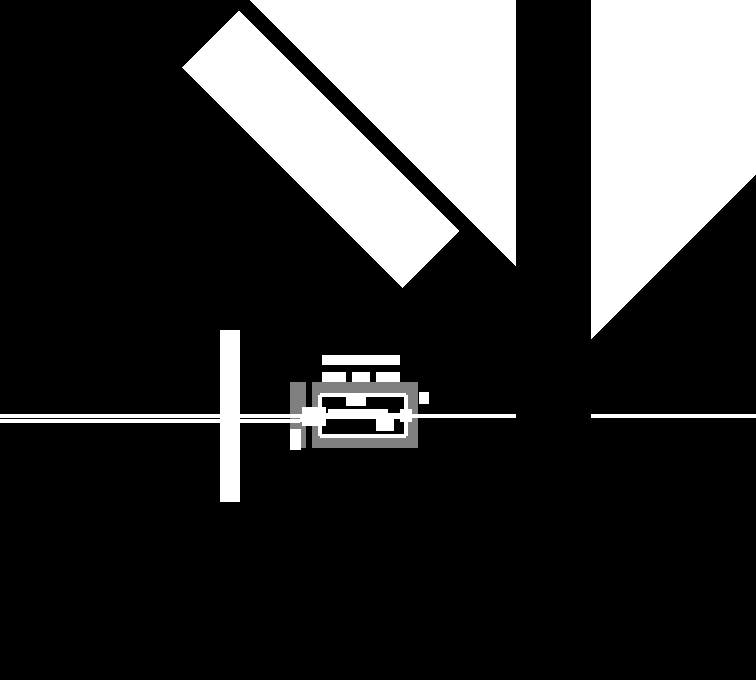
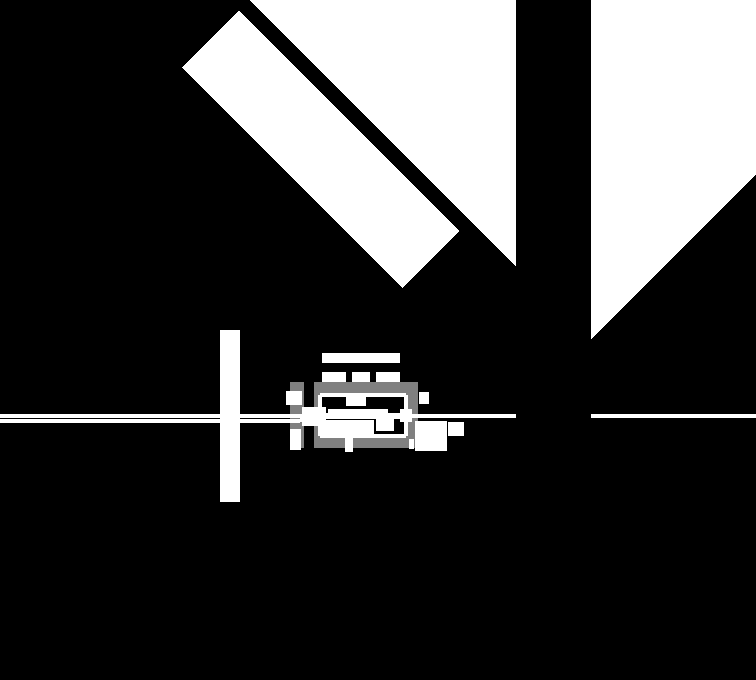
Niveles: Sagunto v1.2, frentes de la D-N113 con el nivel 1 de la escala
Revisión de la build 5188f83 (C1-C9 hechas; E1, E2 y el helipuerto pendientes),
frentes con puestos y caminos, dato de carreteras v1.2, plano y zonas regenerados.

Claude-Session: https://claude.ai/code/session_01A4RyjSgEyJFuVaWsxGoMac

Changed region(s): [[0.3651, 0.5559, 0.5172, 0.6794], [0.5476, 0.6176, 0.6389, 0.6794]]

diff --git a/docs/niveles/herramientas/plano_v1_2.py b/docs/niveles/herramientas/plano_v1_2.py
@@ -1,0 +1,116 @@
+# Plano v1.2 de Sagunto (Álvaro, 7-nov): nivel 1 de la escala (E1-E6) + frentes de la D-N113 dentro de la zona.
+# Fondo: el mapa de zonas v1.2 (zonas.py). Encima, lo construido (build 5188f83) y lo nuevo de la v1.2.
+import numpy as np
+from PIL import Image, ImageDraw, ImageFont
+S=4; X0,X1,Z0,Z1=-30,262,-8,140
+zon=np.array(Image.open("/mnt/project-files/docs/niveles/sagunto_zonas_1m.png"))
+col={0:"#b4a080",1:"#c8b490",2:"#d8c8a0",3:"#48403c",4:"#6c7874",5:"#a86c50",6:"#c4ac84",7:"#94948c",8:"#605c48",9:"#506878",10:"#88885c",11:"#605c48"}
+# recorte: fila 0 del PNG = Z 480, columna 0 = X -250
+sub=zon[480-Z1:480-Z0, X0+250:X1+250]
+rgb=np.zeros(sub.shape+(3,),np.uint8)
+for k,c in col.items(): rgb[sub==k]=[int(c[i:i+2],16) for i in (1,3,5)]
+base=Image.fromarray(rgb).resize(((X1-X0)*S,(Z1-Z0)*S),Image.NEAREST)
+LEG=250
+im=Image.new("RGB",(base.width,base.height+LEG),"#1c1812"); im.paste(base,(0,0)); d=ImageDraw.Draw(im)
+Fp="/usr/share/fonts/truetype/dejavu/DejaVuSans.ttf"; Fb="/usr/share/fonts/truetype/dejavu/DejaVuSans-Bold.ttf"
+F=ImageFont.truetype(Fp,13); FS=ImageFont.truetype(Fp,11); FB=ImageFont.truetype(Fb,15); FT=ImageFont.truetype(Fb,18)
+def P(x,z): return ((x-X0)*S,(Z1-z)*S)
+def R(x0,z0,x1,z1,fill=None,outline=None,w=1): d.rectangle([P(x0,z1),P(x1,z0)],fill=fill,outline=outline,width=w)
+def L(pts,c,w=2): d.line([P(*p) for p in pts],fill=c,width=w)
+def T(x,z,s,c="#1c1812",f=None,bg=None):
+    f=f or F; p=P(x,z)
+    if bg: bb=d.multiline_textbbox(p,s,font=f); d.rectangle([bb[0]-2,bb[1]-1,bb[2]+2,bb[3]+1],fill=bg)
+    d.multiline_text(p,s,fill=c,font=f)
+def rot(cx,cz,w,h,yaw,fill,outline="#1c1812"):
+    a=np.radians(yaw); ux=(np.cos(a),-np.sin(a)); uz=(np.sin(a),np.cos(a))
+    pts=[(cx+sx*w/2*ux[0]+sz*h/2*uz[0], cz+sx*w/2*ux[1]+sz*h/2*uz[1]) for sx,sz in((-1,-1),(1,-1),(1,1),(-1,1))]
+    d.polygon([P(*p) for p in pts],fill=fill,outline=outline)
+# zona simulada
+R(0,0,256,128,outline="#d4d0cc",w=2); T(1,139,"Zona simulada 0–256 × 0–128 m (marco claro)","#d4d0cc",FS,"#1c1812")
+# vías
+L([(X0,64.5),(X1,64.5)],"#94948c",3); L([(X0,59.5),(50,59.5),(64,64.5)],"#94948c",2)
+for x,y in((35,0),(20,8),(5,-12)): rot(x,59.5,14,3,y,"#605c48")
+T(2,56,"tolvas (C2)","#1c1812",FS)
+for x in range(-240,262,50): d.ellipse([P(x-0.8,61.7),P(x+0.8,60.1)],fill="#283440")
+# línea central de la carretera (E1) y del carril abierto
+for x in range(X0,X1,6): L([(x,23),(x+3,23)],"#b8b8b8",1)
+# atasco: v1.2 carril norte abierto de X 64 a 200, apretado al este de 200
+import random; random.seed(7); ax=70
+while ax<250:
+    ax+=random.uniform(5,12) if ax<200 else random.uniform(4.5,6.5)
+    if ax>=250: break
+    if ax<200: z=random.choice([19.5,20.5,21.5,16.2,15.5]); yaw=random.uniform(-25,25)+random.choice([0,0,60])
+    else: z=random.choice([20,21,24.5,25.5,26]); yaw=random.uniform(-25,25)
+    rot(ax,z,4.2,1.8,yaw,random.choice(["#283440","#605c48","#94948c"]))
+rot(258,23,8,2.5,78,"#94948c")
+# corte K1 y K2, balizas
+def corte(x,z,yaw): rot(x,z,8.8,3,yaw,"#b8b8b8","#1c1812")
+corte(201.5,23,90); T(203,31,"K1 corte","#1c1812",FS,"#b8b8b8")
+corte(59,86,0); T(65,87,"K2 corte","#1c1812",FS,"#b8b8b8")
+bal=[(x,28.8) for x in (70,86,110,126,142,158,174,186)]+[(94.2,36),(103.8,36),(53.2,40),(64.8,40),(53.2,52),(64.8,52)]   # §10.3: 14 balizas
+for x,z in bal: d.ellipse([P(x-1,z+1),P(x+1,z-1)],fill="#f0dc9c",outline="#1c1812")
+# fuerte
+R(70,44,156,85,outline="#88885c",w=8)
+L([(70,62),(70,67)],"#7c3c18",8); L([(156,62),(156,67)],"#7c3c18",8)
+L([(95,45),(103,45)],"#70784c",9); T(92,41.5,"E4 puerta de vehículos 8 m","#1c1812",FS,"#c4ac84")
+R(78,66.7,138,70.7,fill="#605c48"); R(96.5,75,115.5,84,fill="#b4a080",outline="#1c1812"); T(98,82,"Viajeros","#1c1812")
+R(127,50,143,58,fill="#94948c",outline="#1c1812"); T(128,57,"Almacén","#1c1812",FS)
+R(73.5,63.5,154,65.5,fill="#50541c",outline="#1c1812")
+R(72,46,124,60,outline="#f0dc9c",w=2); T(73,59.2,"E5 parque de vehículos","#1c1812",FS)
+for x,n,l in((99,"Dragón",8),(88,"VAMTAC",4.9),(80,"VAMTAC",4.9)): rot(x,53,3 if n=="Dragón" else 2.2,l,0,"#50541c")
+# almacén de naranjas, caseta, barricada, bus
+R(40,30,51,51,fill="#a86c50",outline="#1c1812"); T(29,28,"Almacén de naranjas","#1c1812",FS)
+R(49.7,71.3,52.3,73.9,fill="#94948c",outline="#1c1812")
+rot(59,92,11,2.6,74,"#94948c"); T(64,95,"autobús y barricada","#1c1812",FS)
+for i in range(5): rot(53+i*2.3,88.5+(i%2)*1.6,1.8,1.2,i*31,"#605c48")
+# casas (C7 + E3)
+for i in range(12):
+    if i not in(4,8): R(72+i*6,98,78+i*6,108,fill="#a86c50",outline="#1c1812")
+    if i!=3: R(72+i*6,117,78+i*6,127,fill="#a86c50",outline="#1c1812")
+T(152,114,"E3 calle del pueblo 9 m","#1c1812",FS)
+R(169,75,179,89,fill="#b4a080",outline="#1c1812"); T(180,86,"Bloque","#1c1812",FS)
+# helipuerto, NH90, rearme, puesto F3
+R(165.2,28.8,195.6,59.2,fill="#6c7874",outline="#1c1812",w=2)
+d.ellipse([P(172,52),P(188,36)],outline="#d4d0cc",width=3); T(177.5,47.5,"H","#d4d0cc",FT)
+rot(180,44,19.6,3,0,"#50541c"); d.ellipse([P(171.85,52.15),P(188.15,35.85)],outline="#50541c",width=1)
+R(159,31,164,41,fill="#847c34",outline="#1c1812"); T(150,30,"rearme","#1c1812",FS,"#c4ac84")
+L([(186,38),(222,2)],"#d4d0cc",1); T(206,10,"aproximación\ny salida (SE)","#1c1812",FS,"#d4d0cc")
+def puesto(cx,cz,yaw,label):
+    rot(cx+(1.05*np.sin(np.radians(yaw))),cz+(1.05*np.cos(np.radians(yaw))),14.3,16.4,yaw,"#70784c")
+    a=np.radians(yaw); ex,ez=cx+9.2*np.sin(a),cz+9.2*np.cos(a); d.ellipse([P(ex-1.2,ez+1.2),P(ex+1.2,ez-1.2)],fill="#f0dc9c")
+    T(cx-6,cz+2,label,"#d4d0cc",FS)
+puesto(43,82,90,"puesto\nF2"); puesto(207,51,270,"puesto\nF3")
+# frentes
+def frente(x,z,n,txt,dx=3,dz=6):
+    d.ellipse([P(x-3.2,z+3.2),P(x+3.2,z-3.2)],outline="#d4d0cc",width=3); T(x-2,z+2.2,n,"#d4d0cc",FB)
+    T(x+dx,z+dz,txt,"#d4d0cc",F,"#1c1812")
+frente(112,78,"F1","F1 Estación (112; 78)",-10,15)
+frente(59,62,"F2","F2 Paso a nivel (59; 62)",-47,-6.5)
+frente(180,44,"F3","F3 Helipuerto (180; 44)",-2,25)
+T(-29,47,"F4 Tren: sitio móvil (en el dato, X −68 al llegar)","#d4d0cc",FS,"#1c1812")
+# rutas del parque a los frentes (D-N96: solo por carreteras habilitadas y accesos)
+L([(99,53),(99,23),(59,23),(59,62)],"#f0dc9c",3); T(66,33,"→ F2: 109 m · ≈ 19 s","#1c1812",FS,"#f0dc9c")
+L([(99,53),(99,23),(180,23),(180,44)],"#f0dc9c",3); T(130,26.5,"→ F3: 132 m · ≈ 21 s","#1c1812",FS,"#f0dc9c")
+# entradas de oleadas
+for x0,z0,x1,z1,n in((0,56,8,73,"O1 50 %"),(0,14,8,31,"O2 30 %"),(0,92,8,124,"O3 20 %"),(248,56,256,73,"O4 0 %")):
+    R(x0,z0,x1,z1,outline="#e08c30",w=3); T(x0+(-26 if x0==0 else -26),z1+4.5 if x0 else z0+(z1-z0)/2+2,n,"#e08c30",FB,"#1c1812")
+T(110,139,"↑ Norte: pueblo y cerro","#d4d0cc",FS,"#1c1812"); T(110,-3,"↓ Sur: huerta y el mar","#d4d0cc",FS,"#1c1812")
+T(-29,8,"← Valencia","#d4d0cc",FS,"#1c1812"); T(225,139,"Castellón →","#d4d0cc",FS,"#1c1812")
+# leyenda
+y=base.height+10
+def lg(x,y,c,s,shape="r"):
+    if shape=="r": d.rectangle([x,y,x+22,y+14],fill=c,outline="#1c1812")
+    elif shape=="o": d.ellipse([x+6,y+2,x+16,y+12],fill=c)
+    else: d.rectangle([x,y,x+22,y+14],outline=c,width=3)
+    d.text((x+30,y-1),s,fill="#d4d0cc",font=F)
+items=[("#6c7874","r","Asfalto: carretera vieja E1 y calle de la Estación E2, de 10 m"),("#c4ac84","r","Tierra pisada: camino de la puerta sur, puestos y rearme"),
+       ("#f0dc9c","o","Baliza de ruta de Teo (carretera habilitada)"),("#b8b8b8","r","K1/K2: corte de carretera de Teo (no habilitada)"),
+       ("#70784c","r","Puesto de frente v2 (HESCO), 14,3 × 16,4 m; punto crema = entrada"),("#f0dc9c","b","Ruta del parque a un frente, con su ETA (fórmula de la D-N120)"),
+       ("#e08c30","b","Entradas de las oleadas (§9.5)"),("#d4d0cc","b","Frente de la D-N113 (sitio del dato)")]
+for i,(c,sh,s) in enumerate(items): lg(10+(i%2)*580,y+(i//2)*24,c,s,sh)
+d.text((10,y+104),"Sagunto · plano del nivel v1.2 (Álvaro, 7-nov) · 4 px/m, norte arriba · fondo: zonas v1.2 · encima: build 5188f83 + v1.2",fill="#d4d0cc",font=FB)
+d.text((10,y+130),"Carril norte de la carretera abierto por el ejército de X 64 a 200 (los coches, al carril sur y a la cuneta); al este de 200, atasco cerrado y corte K1.",fill="#d4d0cc",font=F)
+d.text((10,y+150),"Calle de la Estación habilitada hasta Z 86; al norte, autobús, barricada y corte K2. Las ETA son cuentas mías con la fórmula de Nacho, no medidas en el juego.",fill="#d4d0cc",font=F)
+d.text((10,y+170),"Helipuerto v4 de Teo (30 × 30 m con balizas) sin anillo de HESCO: lo defiende el puesto F3. Aproximación y salida por el sureste, sobre la huerta.",fill="#d4d0cc",font=F)
+d.text((10,y+190),"Colores de la paleta de 32; ningún rojo. El naranja de las oleadas es solo del plano, no del juego.",fill="#d4d0cc",font=F)
+im.save("/mnt/project-files/docs/niveles/sagunto_plano_v1_2.png"); print(im.size)

diff --git a/docs/niveles/herramientas/zonas.py b/docs/niveles/herramientas/zonas.py
@@ -17,13 +17,19 @@ z[box(40,51,30,51)]=6
 # recinto
 z[box(70,156,44,85)]=1
 # pueblo, calle del pueblo y solares
-z[box(72,150,98,125)]=7
-z[box(72,150,108,115)]=4
+z[box(72,150,98,127)]=7
+z[box(72,150,108,117)]=4               # E3 (v1.2): calle del pueblo de 9 m, hilera trasera en Z 122
 for gi in (4,8): z[box(75+gi*6-3,75+gi*6+3,98,108)]=10   # 5.ª y 9.ª casa de la hilera de delante
 # calles y carreteras
-z[box(X0,X1,20,26)]=4                 # carretera vieja
-z[box(56,62,Z0,286)]=4                 # calle de la Estación (sube hasta el pie del cerro, x+z = 345)
+z[box(X0,X1,18,28)]=4                 # E1 (v1.2): carretera vieja de 10 m
+z[box(54,64,Z0,286)]=4                 # E2 (v1.2): calle de la Estación de 10 m (sube hasta el pie del cerro, x+z = 345)
 z[box(-24,-16,-22,150)]=4             # carretera del paso superior (sobre los terraplenes)
+# v1.2: frentes de la D-N113 y nivel 1 de la escala
+z[box(95,103,28,44)]=6                # E4: camino de la puerta de vehículos a la carretera (tierra pisada)
+z[box(164.8,196.6,28.8,59.2)]=4       # E6: helipuerto de Teo (losa; la zona queda debajo del modelo)
+z[box(35.9,52.2,74.9,89.1)]=6         # F2: puesto de frente del paso a nivel (v2 HESCO, centro (43;82), yaw 90)
+z[box(197.8,214.1,43.9,58.1)]=6       # F3: puesto de frente del helipuerto (v2 HESCO, centro (207;51), yaw 270)
+z[box(159,164,31,41)]=6               # F3: set de rearme entre el muro este y el helipuerto
 # acequias (solo en la huerta sur; madre a Z 10, ramales N-S cada 40 m al sur de Z 10)
 z[box(X0,X1,9,11)&(z==5)]=9
 for x in range(-230,500,40): z[box(x,x+2,Z0,10)&(z==5)]=9
@@ -49,7 +55,12 @@ m[box(96,116,74,85)]=255                      # edificio de viajeros
 m[box(126,144,49,61)]=255                     # almacén y muelle
 m[box(40,51,30,51)]=255                       # almacén de naranjas
 m[box(169,179,76,88)]=255                     # bloque de pisos
-m[box(72,150,98,108)&(z!=10)]=255; m[box(72,150,115,125)]=255   # casas (huellas)
+m[box(72,150,98,108)&(z!=10)]=255; m[box(72,150,117,127)]=255   # casas (huellas; hilera trasera en Z 122, E3)
+m[box(95,103,28,46)]=255                      # E4: puerta de vehículos y camino
+m[box(72,124,46,60)]=255                      # E5: parque de vehículos
+m[box(164.8,196.6,28.8,59.2)]=255             # E6: helipuerto
+m[box(35.9,52.2,74.9,89.1)|box(197.8,214.1,43.9,58.1)]=255   # F2 y F3: puestos de frente
+m[box(159,164,31,41)]=255                     # F3: rearme
 m[box(-30,-10,-22,150)]=255                   # paso superior y terraplenes
 m[box(68,72,44,85)|box(154,158,44,85)|box(70,156,42,46)|box(70,156,83,87)]=255  # muros (por si cambian, ver §8.3)
 m[z==11]=255
@@ -71,7 +82,7 @@ for i,(k,n) in enumerate(ZON.items()):
   x=10+(i%6)*250; y=10+(i//6)*40
   dl.rectangle([x,y,x+26,y+26],fill=col[k]); dl.text((x+34,y+3),f"{k} {n}",fill="#d4d0cc",font=F)
 dl.text((10,100+0),"Oscurecido: sin vegetación. Marco blanco: zona simulada (0-256 × 0-128 m). 1 px del PNG = 1 m; aquí ×2. Norte arriba.",fill="#d4d0cc",font=F)
-dl.text((10,130),"Sagunto · mapa de zonas del suelo v1 (Álvaro, 6-nov) · faldón X −250..506, Z −200..480",fill="#d4d0cc",font=F)
+dl.text((10,130),"Sagunto · mapa de zonas del suelo v1.2 (Álvaro, 7-nov: calles de 10 m, puerta sur, parque, helipuerto y puestos de frente) · faldón X −250..506, Z −200..480",fill="#d4d0cc",font=F)
 out=Image.new("RGB",(W*2,H*2+170)); out.paste(im,(0,0)); out.paste(leg,(0,H*2)); out.save("/mnt/project-files/docs/niveles/sagunto_zonas_vista.png")
 json.dump({"origen_px00":"esquina noroeste: X=-250, Z=480","px_m":1,"ancho":W,"alto":H,"X":[X0,X1],"Z":[Z0,Z1],
   "uv_unity":"u=(X+250)/756, v=(Z+200)/680 (Unity carga la fila 0 del PNG arriba, como v=1)","zonas":ZON,

diff --git a/docs/niveles/sagunto-nivel.md b/docs/niveles/sagunto-nivel.md
@@ -1,8 +1,9 @@
-# Sagunto · diseño del nivel (v1.1, aprobado por Lucía)
+# Sagunto · diseño del nivel (v1.2: frentes de la D-N113 con el nivel 1 de la escala; la v1.1 la aprobó Lucía)
 
 Autor: Álvaro (Niveles) · 6-nov-2026 · Origen: Eugenio, 17:20: «¿es normal que la vía esté cortada? […] que tenga sentido, que sea realista, que se sienta vivo».
 Revisión de cohesión: **Lucía** (última palabra). **Aprobado el 6-nov a las 18:27** con las correcciones de color y contenido de la v1.1 (abajo). Modelos: **Teo**. Integración: **Marcos** (vía Mak).
 Plano: `docs/niveles/sagunto_plano_v1.png` (vista cenital de la zona de 256 × 128 m con lo que hay hoy y lo que propongo).
+**Plano vigente (v1.2, 7-nov): `docs/niveles/sagunto_plano_v1_2.png`**, con los frentes, las calles de 10 m, la puerta sur, el parque y el helipuerto. Lo nuevo está en el **§10**, al final.
 
 > Regla de la casa: cada vía, calle y muro tiene que tener una razón de existir. Si no sabemos contar por qué está ahí, sobra o está mal puesto.
 
@@ -343,3 +344,96 @@ Las fotos F2 de Paula muestran que el puente ferroviario sobre el Palancia es un
 - **Almacén de naranjas** (`sagunto\almacen_naranjas`, v0-v5, pendiente de Lucía): 11 × 21 m, justo la planta del tejado de pruebas (X 40-51, Z 30-51). Centro en **(45,5; 40,5)**, con la fachada al sur, hacia la carretera vieja (girado 180°). **Ojo con la simulación**: el sólido del tejado es plano a 4 m (`Level.RoofH`) y ahí aparecen los zombis del «1 tejado». Hace falta el alero a ~4 m y la variante de cubierta más plana, o los zombis flotarán sobre los faldones. Marcos decide si se ajusta el sólido o se elige la variante.
 - (18:58) Altura: la colisión del tejado es una caja plana de **4,0 m** (`Level.RoofH`). Lucía pidió alero a 5,5 m y cumbrera a 7,5 m, y he recomendado a Teo **ajustar el modelo**: alero a 4,0 m, cubierta de ≤ 5° o azotea con pretil, y cumbrera a ≤ 4,5 m. Cambiar RoofH obliga a recalibrar las caídas y los goldens de zona. Si Lucía prefiere la cubierta a dos aguas de verdad, Marcos sube RoofH a 5,5 m y vuelve a pasar las pruebas de caídas.
 - (19:01) **Decisión de Marcos**: el sólido del tejado sube a 6,5 m y el almacén se queda a dos aguas. Por tanto, hay que recalibrar las caídas y regenerar los goldens de zona. Aviso de nivel: un sólido plano a 6,5 m bajo una cubierta de 5,5 a 7,5 m hace que los zombis floten 1 m sobre el alero y se hundan 1 m junto a la cumbrera. Desde arriba y en pixelado apenas se nota, pero conviene mirarlo en la captura. Si no convence, Teo tiene preparada una variante con azotea a 4,0 m que cuadra con RoofH = 4.
+
+---
+
+## 10. v1.2: los frentes de la D-N113 dentro de Sagunto, con el nivel 1 de la escala (Álvaro, 7-nov)
+
+Encargo (plan-dia-7nov.md): llevar el nivel 1 de §9 (calles de 10 m, puerta de vehículos sur, parque y helipuerto anexo) a los frentes de la D-N113 (estación, paso a nivel y helipuerto dentro de Sagunto) y revisar C1–C9 en la build de Marcos.
+Plano: **`sagunto_plano_v1_2.png`** (script `herramientas/plano_v1_2.py`). Mapa de zonas y máscara regenerados con la v1.2 (`zonas.py`). Dato de carreteras propuesto: **`mapa_sagunto_carreteras_v1_2.json`**.
+
+**En una frase**: cada frente tiene ya un sitio con razón de ser, un puesto que lo defiende, un camino de vehículos que se puede contar («el ejército abrió un carril a empujones») y un corte visible donde el dato dice «no habilitada».
+
+### 10.1 Revisión de la build de Marcos (rama `marcos/noche-prototipo`, 5188f83, leída en el código, sin Unity)
+| # | Estado | Qué hay (archivo de `Assets/TBD/Scripts/`) |
+|---|---|---|
+| C1 | ✅ | Vía 2 de X −250 a 50 y desvío de 50 a 64 (`View/PrototypeBootstrap.cs:1450`) |
+| C2 | ✅ | Tolvas de Teo v0, v2 y v3 en X 35, 20 y 5, con yaw 0, +8 y −12 (`:1459`) |
+| C3 | ✅ ⚠ | Paso superior con terraplenes al 12 % y losa sobre la carretera (`:1394`). **Pero** el dato lo da por no habilitado con «coches abandonados encima» y encima no hay ningún coche: ver 10.6, punto 8 |
+| C4 | ✅ | Tablero de la carretera sobre el cauce y camión cruzado en X 258 (`:1409`) |
+| C5 | ✅ | Atasco irregular (`:1437`). Con la carretera de 10 m hay que mover los carriles: ver 10.4 |
+| C6 | ✅ | Cauce a −4,5 m con orillas y cañas (v1.3) |
+| C7 | ✅ | Hileras en Z 103 (0°) y Z 120 (180°) (`:1345`). E3 pide la trasera en Z 122 |
+| C8 | ✅ | Variantes de casa por hash y alero de distinta altura |
+| C9 | ✅ | Postes de X −240 a 500 (`:1340`) |
+| E1 | ❌ | Carretera vieja todavía de 6 m, Z 20-26 (`:1435`) |
+| E2 | ❌ | Calle de la Estación todavía de 6 m, X 56-62 (`:1423`), y el paso a nivel igual (`:1425`) |
+| E3 | ⚠ | Calle del pueblo de 7 m (falta mover la hilera trasera a Z 122) |
+| E4 | ✅ sim · ❓ vista | La simulación ya tiene la puerta de 8 m (D-N111, G3) y los vehículos cruzan el muro sur por X 95-103 (`View/PrototypeBootstrap.Vehicles.cs:106`). No encuentro dónde se dibuja la hoja doble, y el modelo de Teo (`SM_PuertaVehiculos`) no está en `Resources/Models` |
+| E5 | ✅ | Dragón en (99; 53) y VAMTAC en (88; 53) y (80; 53), yaw 180 (`Vehicles.cs:56`) |
+| E6 | ⚠ | El NH90 está en (180; 44) con yaw 270, pero **el helipuerto de Teo no está importado**: hoy el helicóptero se posa sobre la tierra, sin losa ni balizas |
+
+Además, el dato `StreamingAssets/Noche/mapa_sagunto_carreteras.json` tiene dos incoherencias de lugar: (1) la calle de la Estación está habilitada hasta Z 160 y atraviesa el autobús cruzado y la barricada de Z 88-97, y (2) la carretera vieja se corta en X 222, donde no hay nada que lo explique (el camión está en 258). Las corrijo en 10.3.
+
+Lo visual (colores con la luz de noche y lectura a ortho 12) queda ❓ hasta las capturas de Marcos.
+
+### 10.2 Los frentes
+Todo dentro de la zona simulada (0–256 × 0–128 m), así que todo se ve desde la cámara de juego. Las ETA son **cuentas mías** con la fórmula de la D-N120 (5 s + 4 s por giro + metros ÷ velocidad; Dragón a 80 km/h y accesos al 60 %), **no medidas**.
+
+| Frente | Sitio del dato | Qué se defiende y por qué ahí | Puesto | Camino desde el parque | Le amenaza |
+|---|---|---|---|---|---|
+| **F1 Estación** | (112; 78) | El edificio de viajeros y el tren en el andén: es lo que pierde la noche (D-N104) | El recinto entero; no lleva puesto | Dentro del recinto, en línea recta | O1 por la puerta oeste, O2 por el muro sur y la puerta de vehículos, O3 por el muro norte |
+| **F2 Paso a nivel** | (59; 62) | El cruce de la calle con las vías, a 11 m de la puerta oeste. Es donde se juntan O1 (la vía) y O3 (el pueblo) antes del muro. Si cae, la horda llega a la puerta de vía y los vehículos pierden la calle | **v2 HESCO en (43; 0; 82), yaw 90**: en el glacis, al noroeste del cruce, con la entrada al este, hacia la calle. Ve la vía hacia el oeste (35 m hasta O1) y la calle hacia el pueblo | Puerta sur, carretera hacia el oeste y calle hacia el norte: **109 m, ≈ 19 s** | O1 y O3 desde el principio |
+| **F3 Helipuerto** | (180; 44) | El NH90 y su rearme. Al principio es retaguardia; cuando se abre O4 (la Colmena entra por el puente, «por donde no miras»), pasa a ser frente. Es el frente que cambia a lo largo de la noche | **v2 HESCO en (207; 0; 51), yaw 270**: al este del helipuerto, entre la losa y el puente, con la entrada al oeste, hacia la losa. Ve la vía y el puente (O4, a 41 m) | Puerta sur, carretera hacia el este y acceso al norte: **132 m, ≈ 21 s** | O4; O2 si rebasa el muro sur |
+| **F4 Tren** | (−68; 64,5) | El tren llegando por la vía 1 hasta el andén (D-N91, unos 320 m de vía de entrada) | No lleva: es un muro móvil (D-N27) | Por la vía | O1 mientras llega |
+
+Sobre F4: en el dato es un punto fijo, pero el tren se mueve. Lo lógico es que el sitio siga al tren y se quede en el andén al parar (X 135-151,5). Lo decide Nacho; no lo he tocado.
+
+Medidas de los puestos (sacadas de los FBX de Teo): la v2 ocupa 14,3 × 16,4 m con la chicane, y su entrada mira a +Z con yaw 0. F2 queda en X 35,9-52,2 y Z 74,9-89,1: a 1,8 m de la calle de 10 m, a 1 m de la caseta del paso a nivel y fuera del autobús y la barricada. F3 queda en X 197,8-214,1 y Z 43,9-58,1: a 1,2 m de la losa del helipuerto v4 (que sobresale hasta X 196,6), a 2,8 m del poste de catenaria de X 210 y fuera de la senda de aproximación (sureste).
+
+### 10.3 Carreteras habilitadas y cómo se ven
+El dato manda (D-N113), pero en el suelo tiene que verse lo mismo que en el mapa. Propuesta de dato en `mapa_sagunto_carreteras_v1_2.json`, con los sitios igual que ahora:
+- **`calle_estacion`**: habilitada de Z 20 a **86**. Nuevo **`calle_estacion_norte`**, de Z 86 a 160, **no habilitada**: «autobús cruzado y barricada a la entrada del pueblo».
+- **`carretera_vieja`**: habilitada de X −250 a **200**. **`carretera_vieja_este`**, de 200 a 320, no habilitada: «atasco cerrado hasta el camión cruzado en el puente».
+- `paso_superior`: sin cambios (no habilitado). Aviso para cuando se habilite: el grafo cruza tramos perpendiculares, así que crearía un cruce falso con la vía en (−20; 64,5) y con la carretera en (−20; 23), y los dos son a distinto nivel. Hará falta una marca de «sin cruce».
+
+**Cortes de carretera de Teo** (aprobados, 03:28) donde el dato dice «no habilitada»:
+- **K1**: `SM_CorteCarretera` en **(201,5; 0; 23), yaw 90**, atravesado en la carretera (8,8 m de 10).
+- **K2**: en **(59; 0; 86), yaw 0**, delante de la barricada civil: el ejército cerró la calle detrás de lo que dejaron los vecinos.
+
+**Balizas de ruta de Teo** en lo habilitado (14, luces f0dc9c; el modelo mide 4,2 m a lo largo de su Z):
+- Borde norte de la carretera, Z 28,8, yaw 90: X 70, 86, 110, 126, 142, 158, y 174 y 186 a los lados del acceso al helipuerto.
+- Camino de la puerta sur, Z 36, yaw 0: X 94,2 y 103,8.
+- Calle de la Estación, yaw 0: (53,2; 40), (64,8; 40), (53,2; 52) y (64,8; 52).
+
+### 10.4 El atasco con la carretera de 10 m: carril norte abierto
+Con E1 la carretera va de Z 18 a 28. Para que el camino de los vehículos tenga sentido (y no atraviesen coches), la historia es: **el ejército abrió el carril norte a empujones** desde la calle de la Estación hasta el helipuerto.
+- De **X 64 a 200**: carril norte (Z 23-28) libre. Los coches van al carril sur (Z 19-22) o a la cuneta sur (Z 15-17, en la huerta), y uno de cada tres girado unos 60°, como empujado de lado.
+- De **X 200 a 250**: atasco cerrado en los dos carriles, más junto (4,5-6,5 m), hasta el camión de X 258. Ahí va K1.
+- Los «fuera del asfalto» del código (Z 25,2 y 17,8) ya caen dentro de la carretera de 10 m: pasan a **Z 16 y Z 30**.
+
+### 10.5 Helipuerto (cambia algo respecto a E6)
+- **Modelo de Teo v4** (de noche con torre de focos, con su luz real), en **(180; 0; 44), yaw 0**. Con yaw 0 la torre y la manga quedan al este, lejos del muro. Si cuesta FPS, la v0 (losa). Lo elige Lucía o Mak; yo recomiendo la v4 porque la partida es de noche.
+- La losa del modelo ya mide unos 30 × 30 m con sus balizas. **Quito el anillo de HESCO de E6**: tapaba el paso de los soldados a la losa y sumaba instancias. Ahora defiende el helipuerto el puesto F3.
+- **Set de rearme** de Teo, entre el muro este y la losa: en la franja **X 159-164, Z 31-41**, que es por donde llega la munición desde el recinto. Queda a más de 7 m del disco del rotor (NH90 de 16,3 m de rotor, SIN VERIFICAR).
+- Aproximación y salida por el **sureste**, sobre la huerta. El poste de X 160 queda a 5 m de la esquina noroeste y el bloque de pisos, 16 m al norte: los dos están fuera de esa senda.
+
+### 10.6 Lista para Marcos (vía Mak), por prioridad
+1. **E1 y E2**: carretera vieja de 10 m (centro Z 23, ancho 10) con línea central discontinua en b8b8b8 (0,15 × 3 m cada 6 m) y arcenes de 1,5 m en 94948c; calle de la Estación de X 54 a 64 y paso a nivel de 10 m de ancho. Subir el `sagunto_zonas_1m.png` y el `sagunto_sin_vegetacion_1m.png` v1.2 a `Resources/Suelo` (con la misma vuelta en Z que ya les das).
+2. **Helipuerto de Teo v4** en (180; 0; 44), yaw 0.
+3. **Puerta de vehículos** de Teo en (99; 0; 45), yaw 0, o la hoja doble a partir de `Works` (lo que tengas previsto para la D-N111).
+4. **Puestos de frente v2**: F2 en (43; 0; 82) con yaw 90 y F3 en (207; 0; 51) con yaw 270, con el hijo `Luces` según el IMPORTAR.md de Teo.
+5. **Atasco con el carril norte abierto** (10.4) y los cortes K1 y K2.
+6. **Dato de carreteras v1.2**: copiar `mapa_sagunto_carreteras_v1_2.json` sobre los dos `mapa_sagunto_carreteras.json` (Data y StreamingAssets).
+7. **Balizas de ruta** (10.3) y **set de rearme** (10.5).
+8. **Tres coches sobre el paso superior**, a la cota del tablero (8,3 m), en Z 56, 66 y 74, con giros distintos. Así se ve por qué el dato lo da por cortado.
+9. **E3**: hilera trasera de Z 120 a 122.
+
+Coste: unas 30 piezas nuevas (14 balizas, 2 cortes, 2 puestos, el helipuerto, la puerta, 3 coches y el rearme). Con el margen de 32 FPS, se mide antes de darlo por bueno (regla de D-N70).
+
+### 10.7 Pendiente de otros
+- **Nacho**: si el sitio del tren sigue al tren (10.2, F4) y la marca de «sin cruce» para el paso superior (10.3).
+- **Lucía o Mak**: helipuerto v4 o v0.
+- **Nivel 2** (512 × 256) sigue en P2, pendiente de las medidas de FPS de Nacho y Marcos (§9.3).
+
+— Álvaro (Niveles) · [retrato](/mnt/project-files/equipo/retrato_alvaro_64_x4.png)
